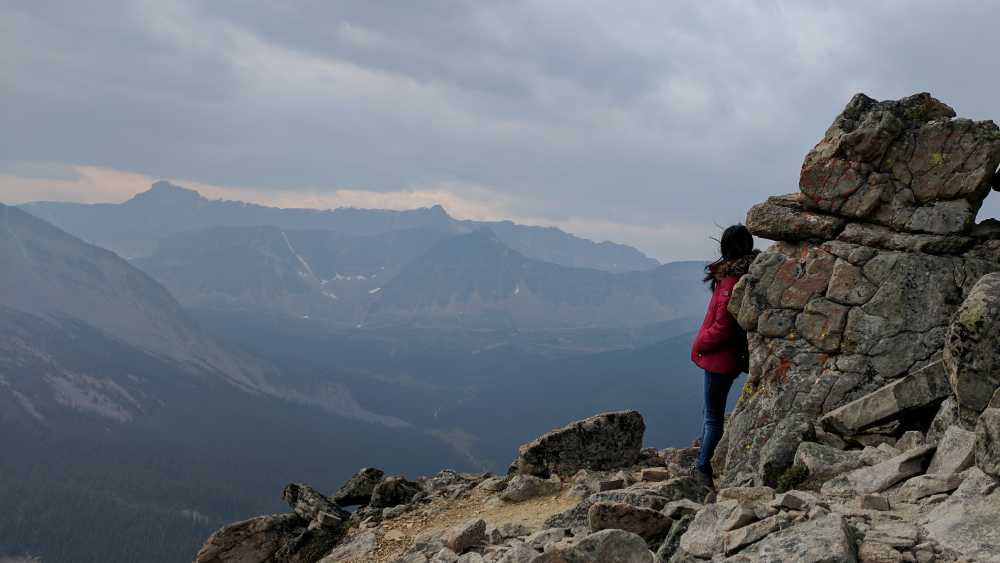
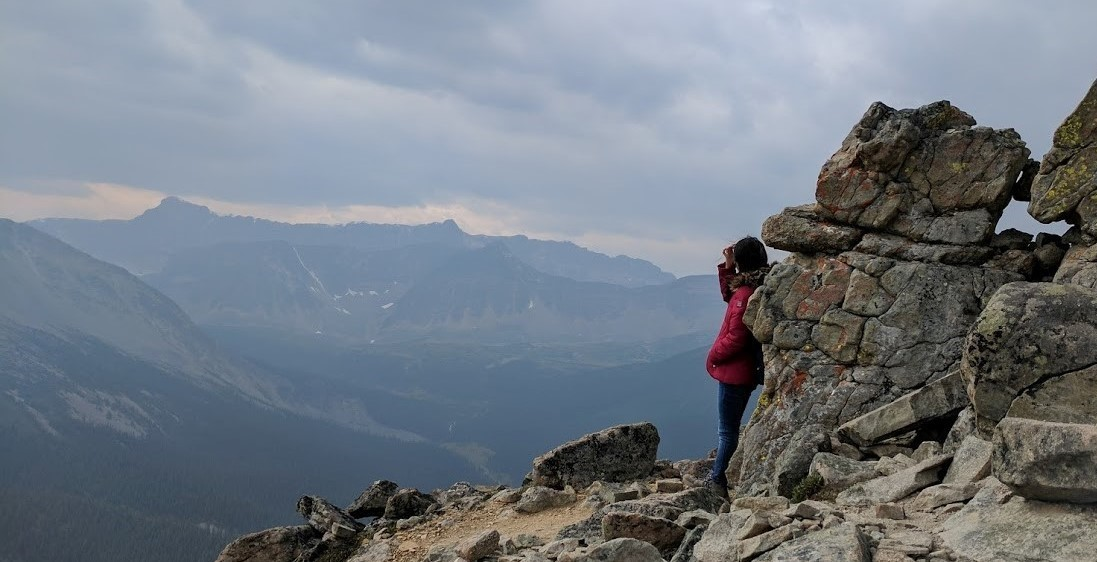
added tag and changed img

diff --git a/index.html b/index.html
@@ -4,8 +4,15 @@
 	<meta charset="utf-8">
 	<meta http-equiv="X-UA-Compatible" content="IE=edge">
     <meta name="viewport" content="width=device-width, initial-scale=1">
-    <meta name="description" content="">
+    <meta name="description" content="Hi! I am Fany and welcome to my personal page. I'm a software developer currently studying Computer Science at University of Waterloo. I enjoy web dev, solving problems, and fangirling over things I like! ">
 	<meta name="author" content="">
+
+    <meta property="og:title" content="Fany Chen | Web Developer"/>
+    <meta property="og:url" content="http://fanychen.com"/>
+    <meta property="og:type" content="website"/>
+    <meta property="og:description" content="Hi! I am Fany and welcome to my personal page. I'm a software developer currently studying Computer Science at University of Waterloo. I enjoy web dev, solving problems, and fangirling over things I like!"/>
+    <meta property="og:image" content="img/banff.jpg"/>
+
     <title>Fany Chen | Web Developer</title>
     <!-- Bootstrap stylesheet -->
     <link href="css/bootstrap.min.css" rel="stylesheet">
